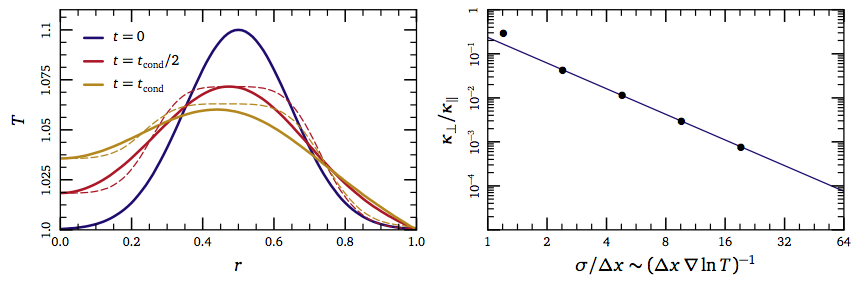
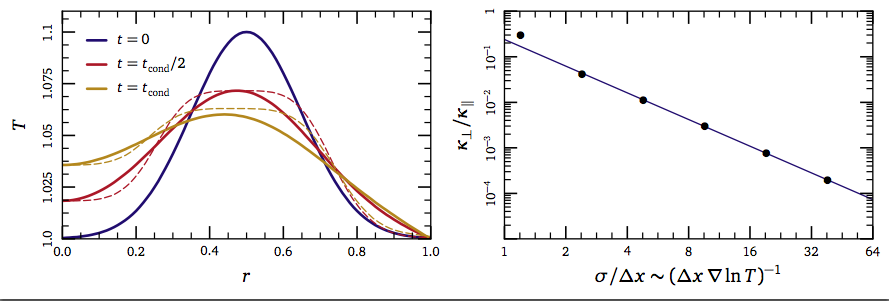
update plots

diff --git a/plot.rb b/plot.rb
@@ -152,7 +152,7 @@ class MyPlots
       # show the mathematica fit to the data
       #
       x = Dvector.new([0.0, Math.log2(64)])
-      y = -1.44448 - 1.93562 * x
+      y = -1.42556 - 1.94769 * x
 
       old_width = t.line_width
       t.line_width = 0.75
